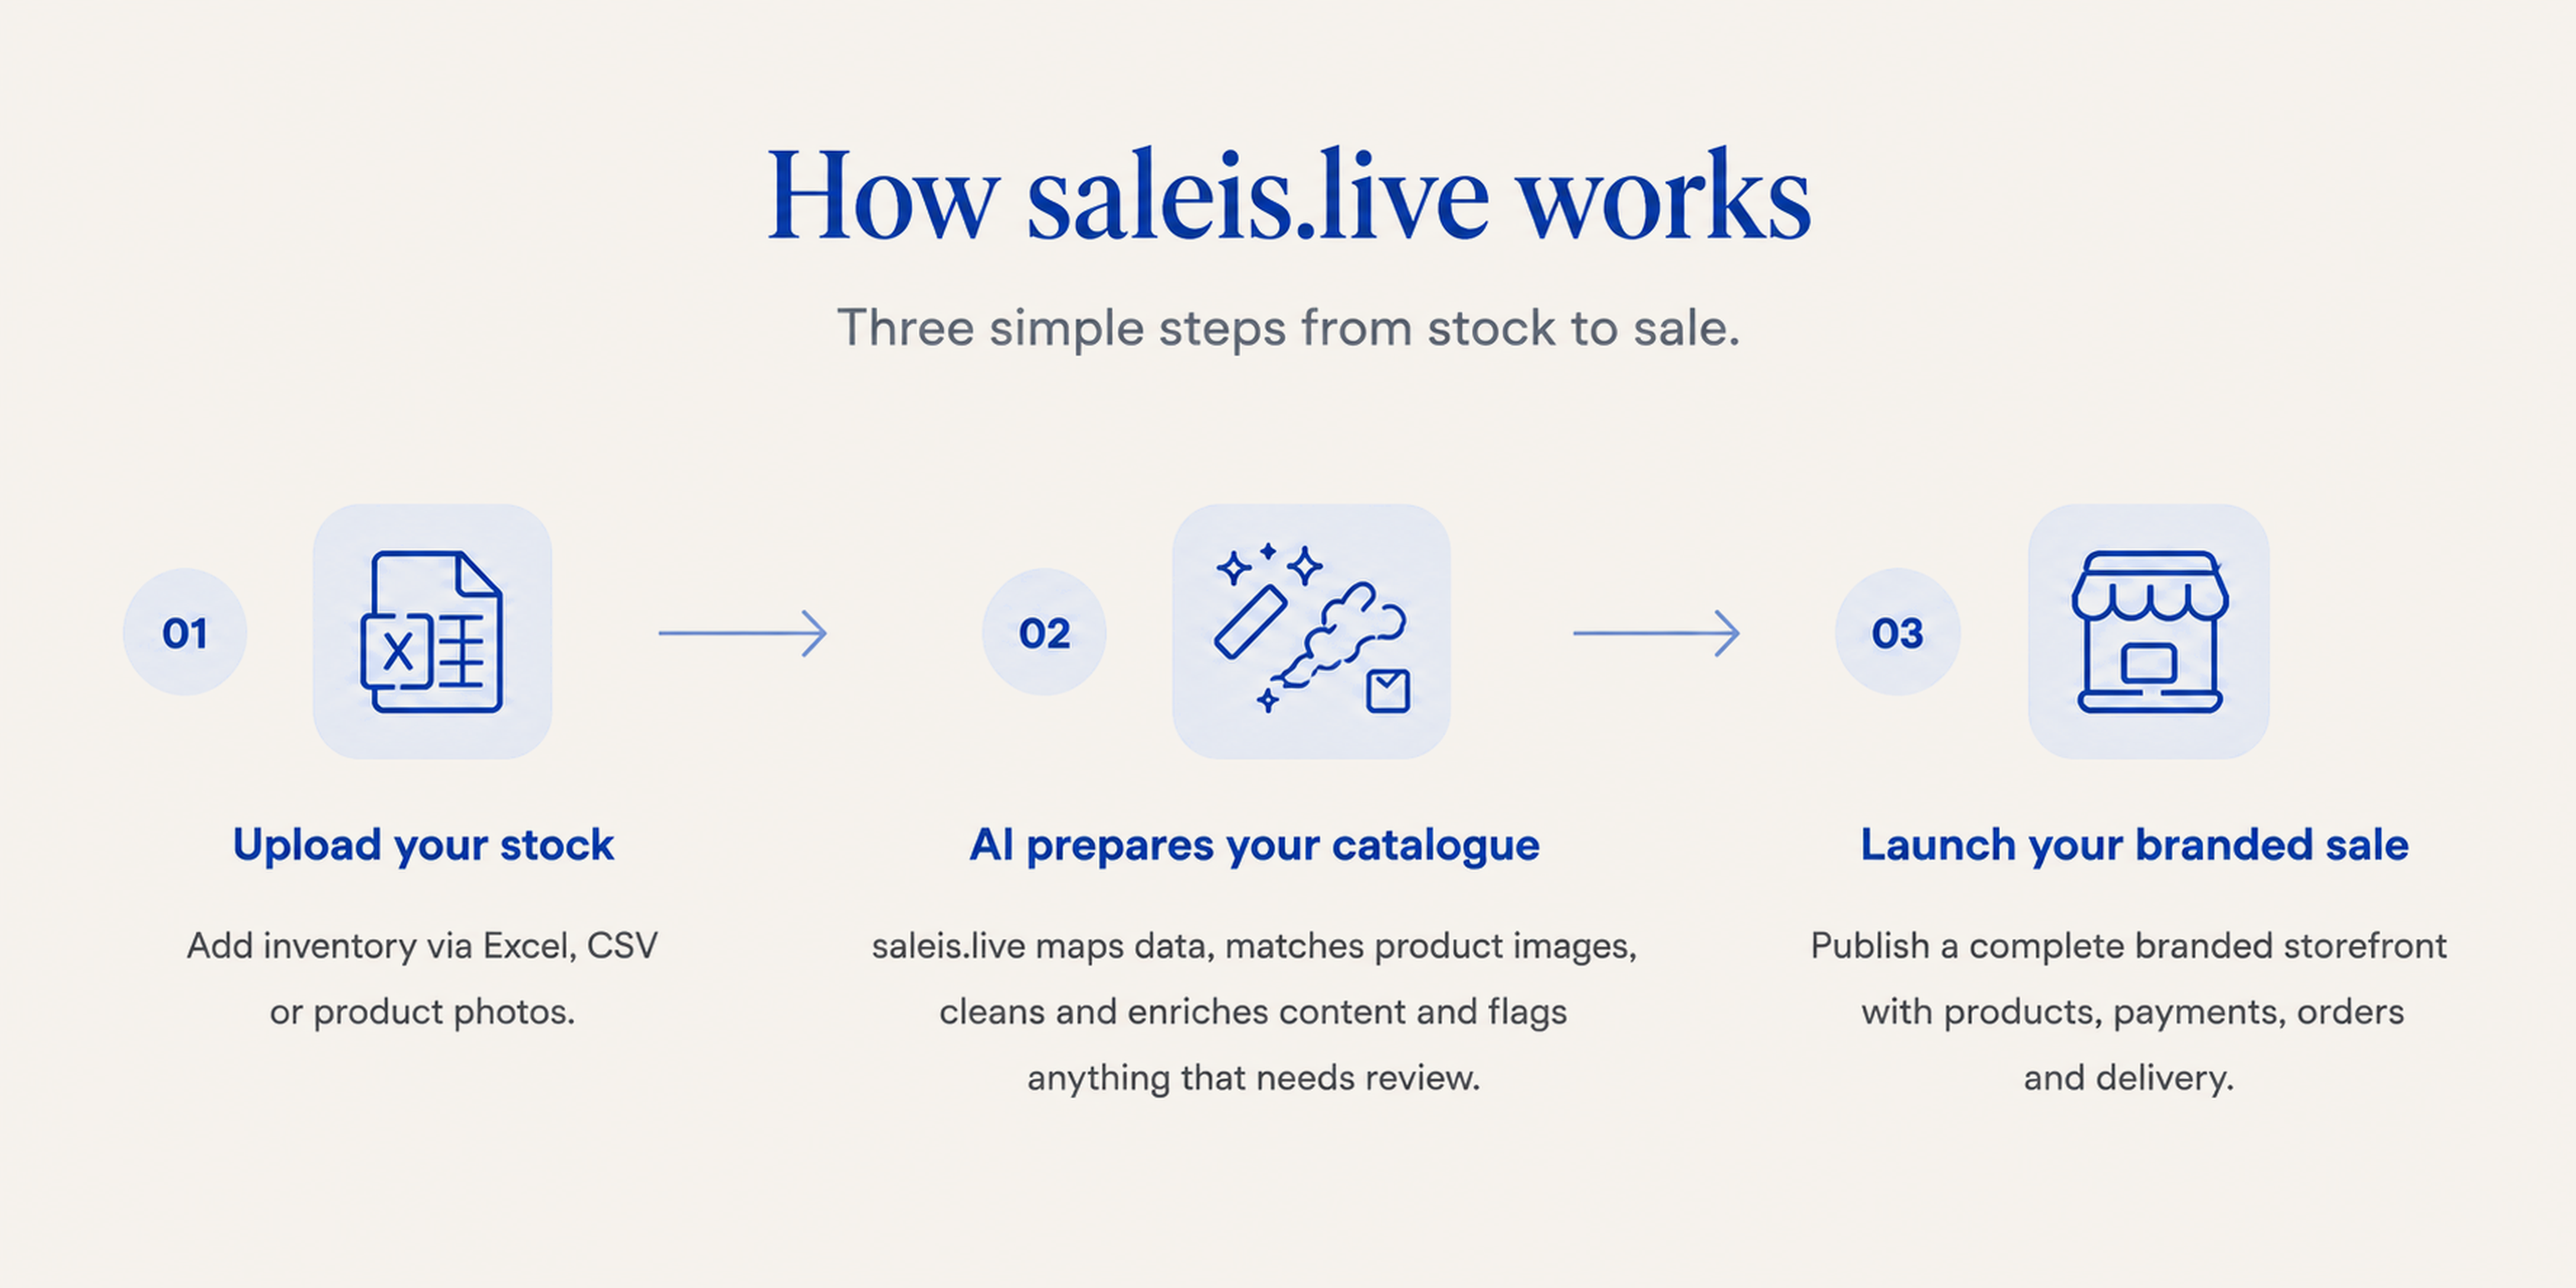
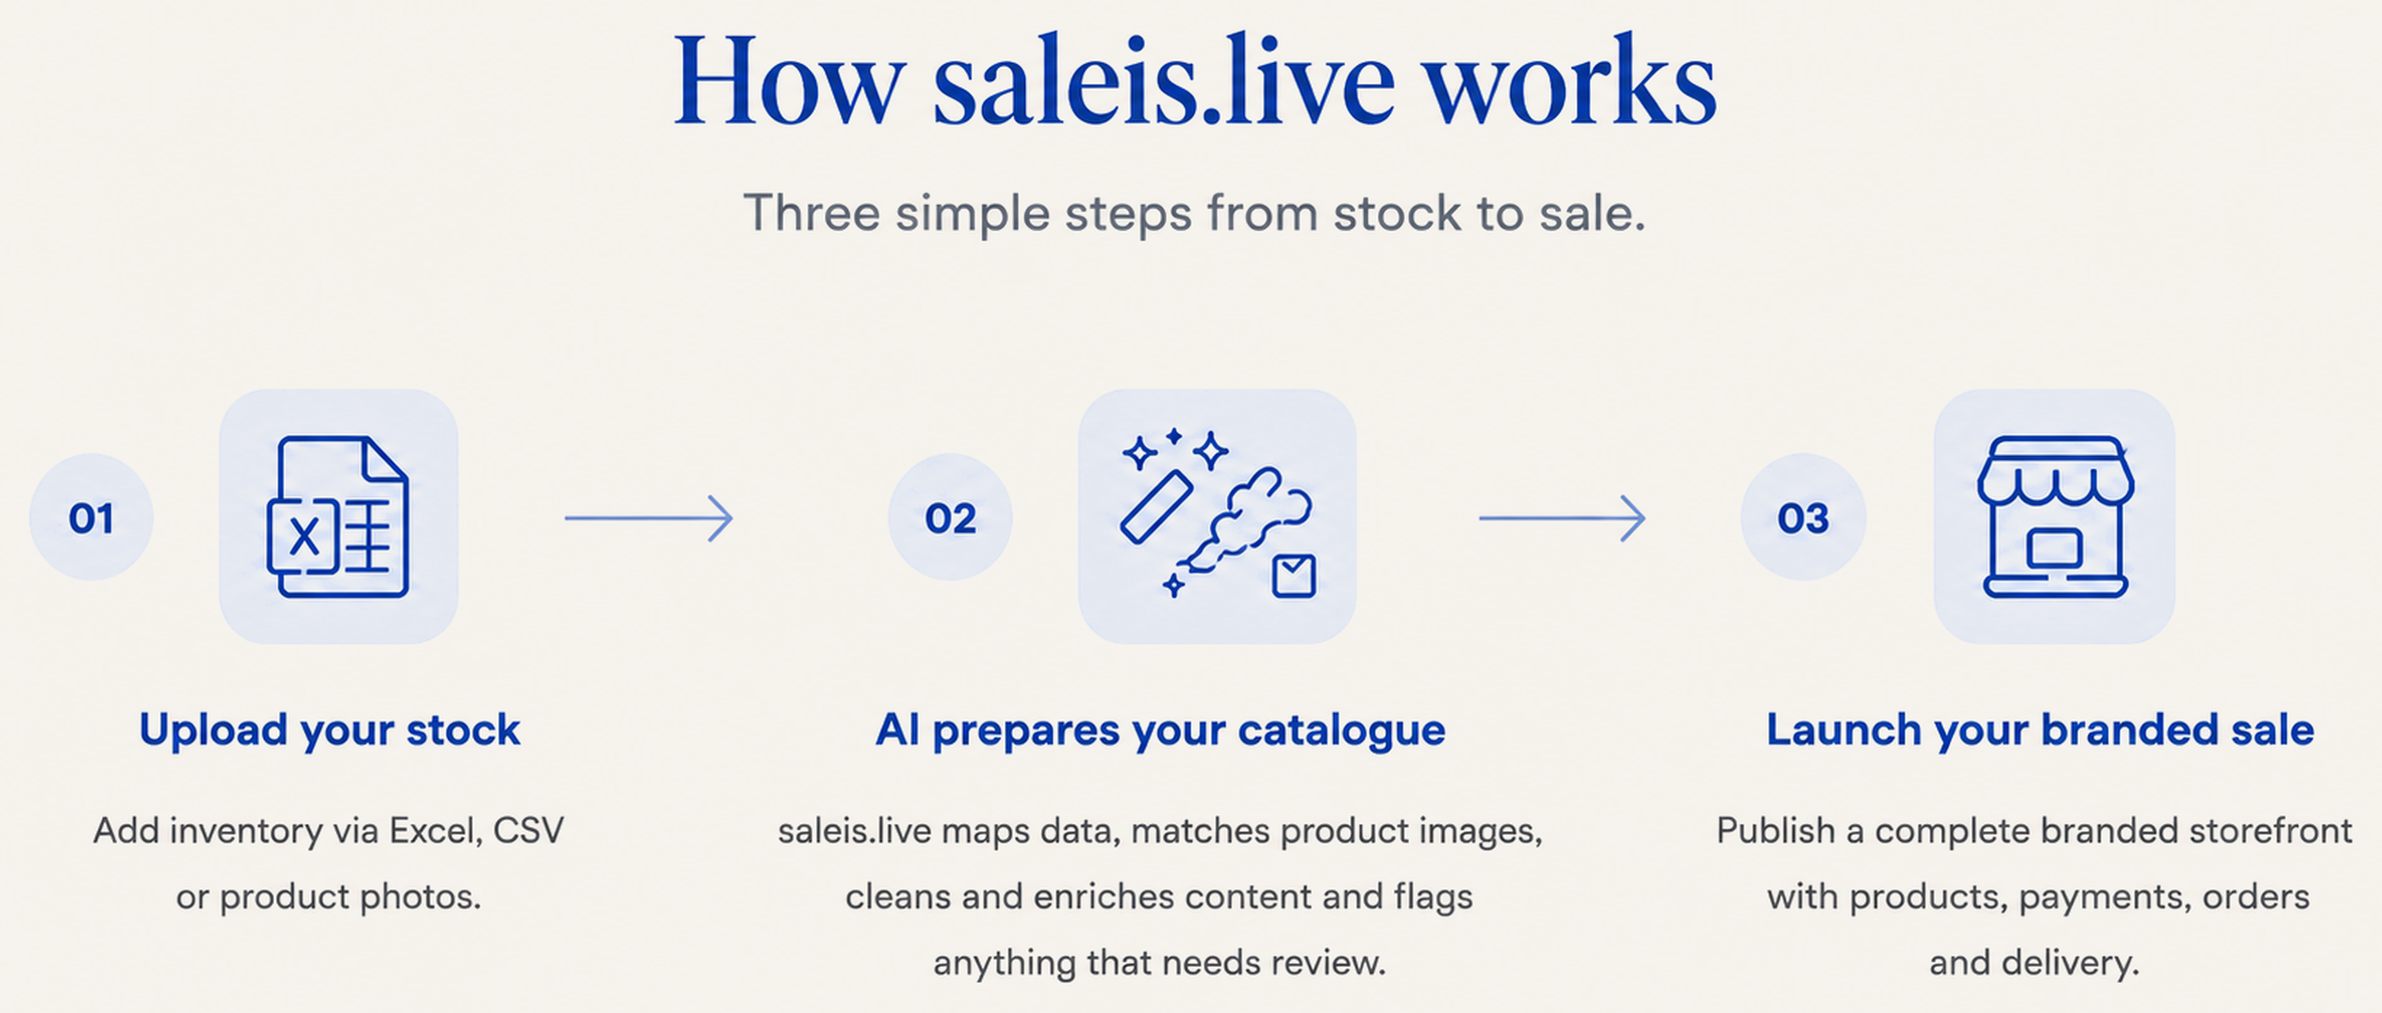
Fix oversized boards, dead space between sections, and footer mismatch
- Cap board images at a consistent max-width (1200px, centered) instead of
  full-bleed, so they stop ballooning on wide screens and stay consistent
  with the "Built to integrate" section, which was already the right size.
- Crop the excess blank canvas baked into 02-how-it-works and 03-in-action
  boards (up to 500px of empty margin) that was causing a dead gap between
  sections once the boards were capped to page width.
- Remove the logo from the footer and match its background to the boards'
  actual cream tone (#F7F2ED vs token #F5F2EB) so the seam disappears.

diff --git a/apps/marketing/src/App.tsx b/apps/marketing/src/App.tsx
@@ -122,7 +122,6 @@ export function App() {
       {onDevelopers ? <DevelopersPage /> : <HomePage />}
 
       <footer style={styles.footer}>
-        <Logo height={16} />
         <span style={{ fontSize: 12, color: colors.muted }}>© {new Date().getFullYear()} saleis.live</span>
       </footer>
     </div>
@@ -148,11 +147,13 @@ function BoardImage({
 }) {
   return (
     <>
-      <div className="board-desktop" style={{ position: "relative" }}>
-        <img src={desktopSrc} alt={alt} style={{ width: "100%", display: "block", aspectRatio: desktopRatio }} />
-        {desktopHotspots?.map((h) => (
-          <a key={h.label} href={h.href} aria-label={h.label} style={hotspotStyle(h.box)} />
-        ))}
+      <div className="board-desktop" style={{ maxWidth: 1264, margin: "0 auto", padding: "0 32px", boxSizing: "border-box" }}>
+        <div style={{ position: "relative" }}>
+          <img src={desktopSrc} alt={alt} style={{ width: "100%", display: "block", aspectRatio: desktopRatio }} />
+          {desktopHotspots?.map((h) => (
+            <a key={h.label} href={h.href} aria-label={h.label} style={hotspotStyle(h.box)} />
+          ))}
+        </div>
       </div>
       {mobileSrc ? (
         <div className="board-mobile" style={{ position: "relative" }}>
@@ -195,7 +196,7 @@ function HomePage() {
         <BoardImage
           alt="How saleis.live works — three simple steps from stock to sale."
           desktopSrc="/images/boards/02-how-it-works-laptop.png"
-          desktopRatio="3548 / 1774"
+          desktopRatio="3282 / 1396"
           mobileSrc="/images/boards/02-how-it-works-mobile.png"
           mobileRatio="1148 / 1371"
         />
@@ -205,12 +206,12 @@ function HomePage() {
         <BoardImage
           alt="See saleis.live in action — for sellers, for buyers, and the sales dashboard."
           desktopSrc="/images/boards/03-in-action-laptop.png"
-          desktopRatio="3072 / 2048"
+          desktopRatio="2945 / 1388"
           mobileSrc="/images/boards/03-in-action-mobile.png"
           mobileRatio="1147 / 1371"
           desktopHotspots={[
-            { href: ADMIN_URL, label: "Start selling now", box: [2.6, 63.5, 12.5, 5.6] },
-            { href: DEMO_STORE_URL, label: "Shop sales live", box: [33.7, 63.5, 11.9, 5.6] },
+            { href: ADMIN_URL, label: "Start selling now", box: [0.71, 80.3, 13.04, 8.26] },
+            { href: DEMO_STORE_URL, label: "Shop sales live", box: [33.14, 80.3, 12.39, 8.26] },
           ]}
         />
       </section>
@@ -501,5 +502,5 @@ const styles: Record<string, React.CSSProperties> = {
   trustTitle: { fontFamily: typography.fontFamily.display, fontSize: 19, fontWeight: 400, color: colors.navy, margin: "0 0 10px" },
   trustBody: { fontSize: 13, color: colors.muted, lineHeight: 1.6, margin: 0 },
 
-  footer: { display: "flex", alignItems: "center", justifyContent: "center", gap: 16, padding: "32px", borderTop: `1px solid ${colors.border}` },
+  footer: { display: "flex", alignItems: "center", justifyContent: "center", gap: 16, padding: "32px", background: "#F7F2ED" },
 };
